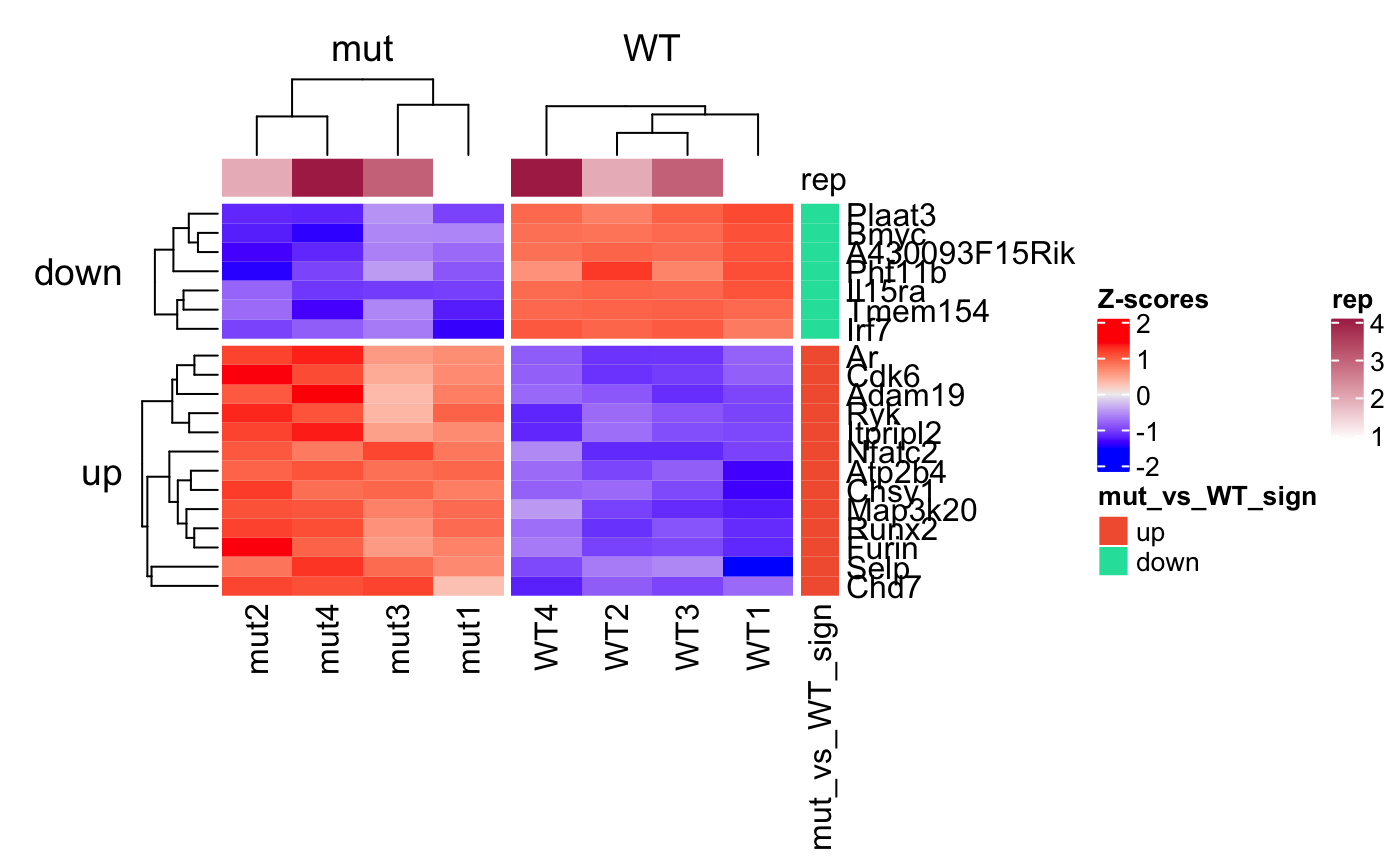
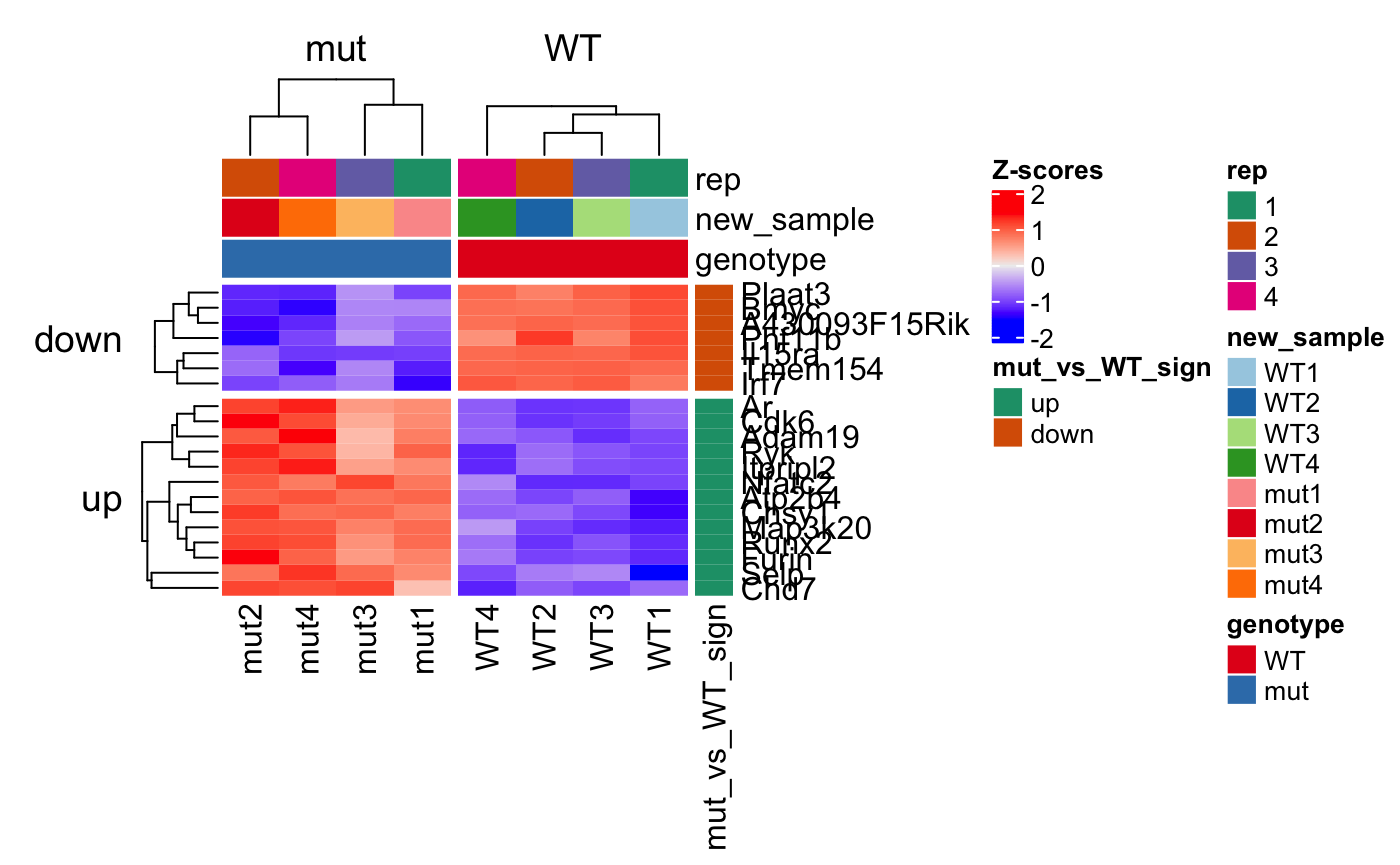
New function to compare gseaResult objects to bbcRNA object to find missing genes and details about why they were removed.
Closes #5.

diff --git a/docs/articles/rnaseq_from_star.html b/docs/articles/rnaseq_from_star.html
@@ -452,12 +452,14 @@
 <span id="cb42-15"><a href="#cb42-15"></a><span class="co">## store LFC sign in rowData. Genes with no matches will be NA.</span></span>
 <span id="cb42-16"><a href="#cb42-16"></a><span class="kw"><a href="https://rdrr.io/pkg/SummarizedExperiment/man/SummarizedExperiment-class.html">rowData</a></span>(bbc_obj)<span class="op">$</span>mut_vs_WT_sign &lt;-<span class="st"> </span></span>
 <span id="cb42-17"><a href="#cb42-17"></a><span class="st">  </span>mut_vs_WT_sign[<span class="kw"><a href="https://rdrr.io/r/base/match.html">match</a></span>(<span class="kw"><a href="https://rdrr.io/r/base/colnames.html">rownames</a></span>(bbc_obj), <span class="kw"><a href="https://rdrr.io/r/base/names.html">names</a></span>(mut_vs_WT_sign))]</span>
-<span id="cb42-18"><a href="#cb42-18"></a></span>
-<span id="cb42-19"><a href="#cb42-19"></a><span class="co"># plot Zscores of normalized log2 cpms</span></span>
-<span id="cb42-20"><a href="#cb42-20"></a><span class="kw"><a href="../reference/plot_heatmap.html">plot_heatmap</a></span>(<span class="dt">x =</span> bbc_obj, <span class="dt">genes =</span> top_genes, <span class="dt">zscores=</span><span class="ot">TRUE</span>, </span>
-<span id="cb42-21"><a href="#cb42-21"></a>             <span class="dt">rowdata_annot =</span> <span class="st">"mut_vs_WT_sign"</span>, <span class="dt">coldata_annot =</span> <span class="st">"rep"</span>,</span>
-<span id="cb42-22"><a href="#cb42-22"></a>             <span class="dt">rowdata_split =</span> <span class="st">"mut_vs_WT_sign"</span>, <span class="dt">coldata_split=</span><span class="st">"genotype"</span>, </span>
-<span id="cb42-23"><a href="#cb42-23"></a>             <span class="dt">gene_labels =</span> <span class="st">"uniq_syms"</span>)</span></code></pre></div>
+<span id="cb42-18"><a href="#cb42-18"></a><span class="co">## make rep a factor</span></span>
+<span id="cb42-19"><a href="#cb42-19"></a><span class="kw"><a href="https://rdrr.io/pkg/SummarizedExperiment/man/SummarizedExperiment-class.html">colData</a></span>(bbc_obj)<span class="op">$</span>rep &lt;-<span class="st"> </span><span class="kw"><a href="https://rdrr.io/r/base/factor.html">factor</a></span>(<span class="kw"><a href="https://rdrr.io/pkg/SummarizedExperiment/man/SummarizedExperiment-class.html">colData</a></span>(bbc_obj)<span class="op">$</span>rep, <span class="dt">levels=</span><span class="kw"><a href="https://rdrr.io/r/base/c.html">c</a></span>(<span class="st">"1"</span>, <span class="st">"2"</span>, <span class="st">"3"</span>, <span class="st">"4"</span>))</span>
+<span id="cb42-20"><a href="#cb42-20"></a></span>
+<span id="cb42-21"><a href="#cb42-21"></a><span class="co"># plot Zscores of normalized log2 cpms</span></span>
+<span id="cb42-22"><a href="#cb42-22"></a><span class="kw"><a href="../reference/plot_heatmap.html">plot_heatmap</a></span>(<span class="dt">x =</span> bbc_obj, <span class="dt">genes =</span> top_genes, <span class="dt">zscores=</span><span class="ot">TRUE</span>, </span>
+<span id="cb42-23"><a href="#cb42-23"></a>             <span class="dt">rowdata_annot =</span> <span class="st">"mut_vs_WT_sign"</span>, <span class="dt">coldata_annot =</span> <span class="kw"><a href="https://rdrr.io/r/base/c.html">c</a></span>(<span class="st">"rep"</span>, <span class="st">"new_sample"</span>, <span class="st">"genotype"</span>),</span>
+<span id="cb42-24"><a href="#cb42-24"></a>             <span class="dt">rowdata_split =</span> <span class="st">"mut_vs_WT_sign"</span>, <span class="dt">coldata_split=</span><span class="st">"genotype"</span>, </span>
+<span id="cb42-25"><a href="#cb42-25"></a>             <span class="dt">gene_labels =</span> <span class="st">"uniq_syms"</span>)</span></code></pre></div>
 <p><img src="rnaseq_from_star_files/figure-html/heatmap-1.png" width="700"></p>
 <div class="sourceCode" id="cb43"><pre class="sourceCode r"><code class="sourceCode r"><span id="cb43-1"><a href="#cb43-1"></a><span class="co"># plot average normalized log2 cpms</span></span>
 <span id="cb43-2"><a href="#cb43-2"></a><span class="kw"><a href="../reference/plot_heatmap.html">plot_heatmap</a></span>(<span class="dt">x =</span> bbc_obj, <span class="dt">genes =</span> top_genes, <span class="dt">zscores=</span><span class="ot">FALSE</span>, </span>
@@ -493,22 +495,24 @@
 <pre><code>## done...</code></pre>
 <div class="sourceCode" id="cb59"><pre class="sourceCode r"><code class="sourceCode r"><span id="cb59-1"><a href="#cb59-1"></a><span class="kw"><a href="https://rdrr.io/r/base/names.html">names</a></span>(H_gsea_results_list)</span></code></pre></div>
 <pre><code>## [1] "genotype_mut_-_WT" "genotype_WT_-_mut"</code></pre>
-<div class="sourceCode" id="cb61"><pre class="sourceCode r"><code class="sourceCode r"><span id="cb61-1"><a href="#cb61-1"></a>enrichplot<span class="op">::</span><span class="kw"><a href="https://rdrr.io/pkg/enrichplot/man/dotplot.html">dotplot</a></span>(H_gsea_results_list[[<span class="dv">1</span>]], <span class="dt">showCategory=</span><span class="dv">10</span>, </span>
-<span id="cb61-2"><a href="#cb61-2"></a>                    <span class="dt">title=</span><span class="st">"Top gene sets"</span>, <span class="dt">split=</span><span class="st">".sign"</span>) <span class="op">+</span><span class="st"> </span></span>
-<span id="cb61-3"><a href="#cb61-3"></a><span class="st">  </span><span class="kw"><a href="https://ggplot2.tidyverse.org/reference/facet_grid.html">facet_grid</a></span>(.<span class="op">~</span>.sign)</span></code></pre></div>
+<div class="sourceCode" id="cb61"><pre class="sourceCode r"><code class="sourceCode r"><span id="cb61-1"><a href="#cb61-1"></a><span class="co"># to get the missing genes</span></span>
+<span id="cb61-2"><a href="#cb61-2"></a>missing_genes &lt;-<span class="st"> </span><span class="kw"><a href="../reference/find_missing_in_gseaResult.html">find_missing_in_gseaResult</a></span>(H_gsea_results_list, bbc_obj)</span></code></pre></div>
+<div class="sourceCode" id="cb62"><pre class="sourceCode r"><code class="sourceCode r"><span id="cb62-1"><a href="#cb62-1"></a>enrichplot<span class="op">::</span><span class="kw"><a href="https://rdrr.io/pkg/enrichplot/man/dotplot.html">dotplot</a></span>(H_gsea_results_list[[<span class="dv">1</span>]], <span class="dt">showCategory=</span><span class="dv">10</span>, </span>
+<span id="cb62-2"><a href="#cb62-2"></a>                    <span class="dt">title=</span><span class="st">"Top gene sets"</span>, <span class="dt">split=</span><span class="st">".sign"</span>) <span class="op">+</span><span class="st"> </span></span>
+<span id="cb62-3"><a href="#cb62-3"></a><span class="st">  </span><span class="kw"><a href="https://ggplot2.tidyverse.org/reference/facet_grid.html">facet_grid</a></span>(.<span class="op">~</span>.sign)</span></code></pre></div>
 <pre><code>## wrong orderBy parameter; set to default `orderBy = "x"`</code></pre>
 <p><img src="rnaseq_from_star_files/figure-html/plot_Hgsea-1.png" width="700"></p>
 </div>
 <div id="gsea-kegg" class="section level1">
 <h1 class="hasAnchor">
 <a href="#gsea-kegg" class="anchor"></a>GSEA – KEGG</h1>
-<div class="sourceCode" id="cb63"><pre class="sourceCode r"><code class="sourceCode r"><span id="cb63-1"><a href="#cb63-1"></a>kegg_gsea_results_list &lt;-<span class="st"> </span><span class="kw"><a href="../reference/run_gsea.html">run_gsea</a></span>(<span class="dt">x =</span> bbc_obj,</span>
-<span id="cb63-2"><a href="#cb63-2"></a>                                <span class="dt">de_pkg =</span> <span class="st">"edger"</span>,</span>
-<span id="cb63-3"><a href="#cb63-3"></a>                                <span class="dt">gene_set =</span> <span class="st">"kegg"</span>,</span>
-<span id="cb63-4"><a href="#cb63-4"></a>                                <span class="dt">orgDb =</span> org.Mm.eg.db,</span>
-<span id="cb63-5"><a href="#cb63-5"></a>                                <span class="dt">organism =</span> <span class="st">"mmu"</span>,</span>
-<span id="cb63-6"><a href="#cb63-6"></a>                                <span class="dt">minGSSize =</span> <span class="dv">30</span>,</span>
-<span id="cb63-7"><a href="#cb63-7"></a>                                <span class="dt">use_internal_data =</span> <span class="ot">FALSE</span>)</span></code></pre></div>
+<div class="sourceCode" id="cb64"><pre class="sourceCode r"><code class="sourceCode r"><span id="cb64-1"><a href="#cb64-1"></a>kegg_gsea_results_list &lt;-<span class="st"> </span><span class="kw"><a href="../reference/run_gsea.html">run_gsea</a></span>(<span class="dt">x =</span> bbc_obj,</span>
+<span id="cb64-2"><a href="#cb64-2"></a>                                <span class="dt">de_pkg =</span> <span class="st">"edger"</span>,</span>
+<span id="cb64-3"><a href="#cb64-3"></a>                                <span class="dt">gene_set =</span> <span class="st">"kegg"</span>,</span>
+<span id="cb64-4"><a href="#cb64-4"></a>                                <span class="dt">orgDb =</span> org.Mm.eg.db,</span>
+<span id="cb64-5"><a href="#cb64-5"></a>                                <span class="dt">organism =</span> <span class="st">"mmu"</span>,</span>
+<span id="cb64-6"><a href="#cb64-6"></a>                                <span class="dt">minGSSize =</span> <span class="dv">30</span>,</span>
+<span id="cb64-7"><a href="#cb64-7"></a>                                <span class="dt">use_internal_data =</span> <span class="ot">FALSE</span>)</span></code></pre></div>
 <pre><code>## genotype_mut_-_WT: removed 0 genes out of 10827 due to logFC = 0 or PValue = 1</code></pre>
 <pre><code>## genotype_mut_-_WT: removed 503 genes out of 10827 due to no Entrez gene match</code></pre>
 <pre><code>## genotype_mut_-_WT: total genes remaining is 10324</code></pre>
@@ -523,19 +527,19 @@
 <pre><code>## GSEA analysis...</code></pre>
 <pre><code>## leading edge analysis...</code></pre>
 <pre><code>## done...</code></pre>
-<div class="sourceCode" id="cb78"><pre class="sourceCode r"><code class="sourceCode r"><span id="cb78-1"><a href="#cb78-1"></a><span class="kw"><a href="https://rdrr.io/r/base/names.html">names</a></span>(kegg_gsea_results_list)</span></code></pre></div>
+<div class="sourceCode" id="cb79"><pre class="sourceCode r"><code class="sourceCode r"><span id="cb79-1"><a href="#cb79-1"></a><span class="kw"><a href="https://rdrr.io/r/base/names.html">names</a></span>(kegg_gsea_results_list)</span></code></pre></div>
 <pre><code>## [1] "genotype_mut_-_WT" "genotype_WT_-_mut"</code></pre>
-<div class="sourceCode" id="cb80"><pre class="sourceCode r"><code class="sourceCode r"><span id="cb80-1"><a href="#cb80-1"></a>enrichplot<span class="op">::</span><span class="kw"><a href="https://rdrr.io/pkg/enrichplot/man/dotplot.html">dotplot</a></span>(kegg_gsea_results_list[[<span class="dv">1</span>]], <span class="dt">showCategory=</span><span class="dv">10</span>, </span>
-<span id="cb80-2"><a href="#cb80-2"></a>                    <span class="dt">title=</span><span class="st">"Top gene sets"</span>, <span class="dt">split=</span><span class="st">".sign"</span>) <span class="op">+</span><span class="st"> </span></span>
-<span id="cb80-3"><a href="#cb80-3"></a><span class="st">  </span><span class="kw"><a href="https://ggplot2.tidyverse.org/reference/facet_grid.html">facet_grid</a></span>(.<span class="op">~</span>.sign)</span></code></pre></div>
+<div class="sourceCode" id="cb81"><pre class="sourceCode r"><code class="sourceCode r"><span id="cb81-1"><a href="#cb81-1"></a>enrichplot<span class="op">::</span><span class="kw"><a href="https://rdrr.io/pkg/enrichplot/man/dotplot.html">dotplot</a></span>(kegg_gsea_results_list[[<span class="dv">1</span>]], <span class="dt">showCategory=</span><span class="dv">10</span>, </span>
+<span id="cb81-2"><a href="#cb81-2"></a>                    <span class="dt">title=</span><span class="st">"Top gene sets"</span>, <span class="dt">split=</span><span class="st">".sign"</span>) <span class="op">+</span><span class="st"> </span></span>
+<span id="cb81-3"><a href="#cb81-3"></a><span class="st">  </span><span class="kw"><a href="https://ggplot2.tidyverse.org/reference/facet_grid.html">facet_grid</a></span>(.<span class="op">~</span>.sign)</span></code></pre></div>
 <pre><code>## wrong orderBy parameter; set to default `orderBy = "x"`</code></pre>
 <p><img src="rnaseq_from_star_files/figure-html/plot_kegggsea-1.png" width="700"></p>
-<div class="sourceCode" id="cb82"><pre class="sourceCode r"><code class="sourceCode r"><span id="cb82-1"><a href="#cb82-1"></a><span class="co">#gseaplot(kegg_gsea_results_list[[1]], geneSetID = "mmu05200", by="runningScore")</span></span></code></pre></div>
+<div class="sourceCode" id="cb83"><pre class="sourceCode r"><code class="sourceCode r"><span id="cb83-1"><a href="#cb83-1"></a><span class="co">#gseaplot(kegg_gsea_results_list[[1]], geneSetID = "mmu05200", by="runningScore")</span></span></code></pre></div>
 </div>
 <div id="session-info" class="section level1">
 <h1 class="hasAnchor">
 <a href="#session-info" class="anchor"></a>Session info</h1>
-<div class="sourceCode" id="cb83"><pre class="sourceCode r"><code class="sourceCode r"><span id="cb83-1"><a href="#cb83-1"></a><span class="kw"><a href="https://rdrr.io/r/utils/sessionInfo.html">sessionInfo</a></span>()</span></code></pre></div>
+<div class="sourceCode" id="cb84"><pre class="sourceCode r"><code class="sourceCode r"><span id="cb84-1"><a href="#cb84-1"></a><span class="kw"><a href="https://rdrr.io/r/utils/sessionInfo.html">sessionInfo</a></span>()</span></code></pre></div>
 <pre><code>## R version 3.6.1 (2019-07-05)
 ## Platform: x86_64-apple-darwin15.6.0 (64-bit)
 ## Running under: macOS Mojave 10.14.6

diff --git a/docs/reference/find_missing_in_gseaResult.html b/docs/reference/find_missing_in_gseaResult.html
@@ -6,7 +6,7 @@
 <meta http-equiv="X-UA-Compatible" content="IE=edge">
 <meta name="viewport" content="width=device-width, initial-scale=1.0">
 
-<title>Run GSEA — run_gsea • bbcRNA</title>
+<title>Compare genes in clusterProfiler gseaResult to genes in a bbcRNA object — find_missing_in_gseaResult • bbcRNA</title>
 
 <!-- jquery -->
 <script src="https://cdnjs.cloudflare.com/ajax/libs/jquery/3.3.1/jquery.min.js" integrity="sha256-FgpCb/KJQlLNfOu91ta32o/NMZxltwRo8QtmkMRdAu8=" crossorigin="anonymous"></script>
@@ -32,9 +32,12 @@
 
 
 
-<meta property="og:title" content="Run GSEA — run_gsea" />
+<meta property="og:title" content="Compare genes in clusterProfiler gseaResult to genes in a bbcRNA object — find_missing_in_gseaResult" />
 
-<meta property="og:description" content="Run GSEA" />
+<meta property="og:description" content="Output dataframe for genes that did not have an Entrez match (based on rules
+in ens2entrez) and genes that are present in the bbcRNA object but not in the
+bbcRNA object. Output LFC and PValue. If present in the bbcRNA object but not
+in the DE analysis, then it is inferred to be a lowly expressed gene." />
 <meta name="twitter:card" content="summary" />
 
 
@@ -110,99 +113,42 @@
 <div class="row">
   <div class="col-md-9 contents">
     <div class="page-header">
-    <h1>Run GSEA</h1>
+    <h1>Compare genes in clusterProfiler gseaResult to genes in a bbcRNA object</h1>
     
-    <div class="hidden name"><code>run_gsea.Rd</code></div>
+    <div class="hidden name"><code>find_missing_in_gseaResult.Rd</code></div>
     </div>
 
     <div class="ref-description">
     
-    <p>Run GSEA</p>
+    <p>Output dataframe for genes that did not have an Entrez match (based on rules
+in ens2entrez) and genes that are present in the bbcRNA object but not in the
+bbcRNA object. Output LFC and PValue. If present in the bbcRNA object but not
+in the DE analysis, then it is inferred to be a lowly expressed gene.</p>
     
     </div>
 
-    <pre class="usage"><span class='fu'>run_gsea</span>(<span class='no'>x</span>, <span class='no'>...</span>)
-
-<span class='co'># S4 method for data.frame</span>
-<span class='fu'>run_gsea</span>(<span class='no'>x</span>, <span class='kw'>gene_set</span> <span class='kw'>=</span> <span class='st'>"reactome"</span>, <span class='no'>organism</span>,
-  <span class='no'>orgDb</span>, <span class='no'>...</span>)
-
-<span class='co'># S4 method for BbcSE</span>
-<span class='fu'>run_gsea</span>(<span class='no'>x</span>, <span class='kw'>de_pkg</span> <span class='kw'>=</span> <span class='st'>"edger"</span>,
-  <span class='kw'>rank_by</span> <span class='kw'>=</span> <span class='st'>"signed-log10pval"</span>, <span class='kw'>contrast_names</span> <span class='kw'>=</span> <span class='st'>""</span>, <span class='no'>...</span>)</pre>
+    <pre class="usage"><span class='fu'>find_missing_in_gseaResult</span>(<span class='no'>gseaResults</span>, <span class='no'>bbcRNA</span>, <span class='kw'>de_pkg</span> <span class='kw'>=</span> <span class='st'>"edger"</span>)</pre>
     
     <h2 class="hasAnchor" id="arguments"><a class="anchor" href="#arguments"></a>Arguments</h2>
     <table class="ref-arguments">
     <colgroup><col class="name" /><col class="desc" /></colgroup>
     <tr>
-      <th>x</th>
-      <td><p>A BbcSE object or a DGEList or a DESeqDataSet.</p></td>
+      <th>gseaResults</th>
+      <td><p>A list of ClusterProfiler::gseaResult objects outputted by 'run_gsea'.</p></td>
     </tr>
     <tr>
-      <th>...</th>
-      <td><p>Passed to gseKEGG, GSEA or gsePathway. See each function for
-possible arguments.</p></td>
-    </tr>
-    <tr>
-      <th>gene_set</th>
-      <td><p>one of "kegg", "reactome", "H", "C1", "C2", "C3", "C4", "C5",
-"C6", "C7"</p></td>
-    </tr>
-    <tr>
-      <th>organism</th>
-      <td><p>For compatibility with dowstream tools, the organism is
-specified differently depending on the desired gene set. For KEGG, use the
-three-letter code according to
-http://www.genome.jp/kegg/catalog/org_list.html. For Reactome, possible
-values are ‘celegans’, ‘fly’, ‘human’, ‘mouse’, ‘rat’, ‘yeast’ and
-‘zebrafish’. For msigdb, run 'msigdbr::msigdbr_show_species()'.</p></td>
-    </tr>
-    <tr>
-      <th>orgDb</th>
-      <td><p>OrgDB object for your organism</p></td>
+      <th>bbcRNA</th>
+      <td><p>bbcRNA object</p></td>
     </tr>
     <tr>
       <th>de_pkg</th>
-      <td><p>"edger" or "deseq2". Only used if x is a BbcSE</p></td>
-    </tr>
-    <tr>
-      <th>rank_by</th>
-      <td><dl class='dl-horizontal'>
- <dt>"signed-log10pval"</dt><dd><p>-log10 of the PValue from the DE analysis, signed
- by the LFC.</p></dd>
- <dt>"-log10pval"</dt><dd><p>-log10 of the PValue from the DE analysis. May be ideal
- for gene sets that contain both up-regulated and down-regulated genes for a
- particular process or pathway etc.</p></dd>
-
-</dl></td>
-    </tr>
-    <tr>
-      <th>contrast_names</th>
-      <td><p>character value or vector for the contrast(s) of
-interest. See name(de_results(edger(x))). If left to default "" value then
-all contrasts will be processed.</p></td>
+      <td><p>"edger" or "deseq2"</p></td>
     </tr>
     </table>
     
     <h2 class="hasAnchor" id="value"><a class="anchor" href="#value"></a>Value</h2>
 
-    <p>A list of gseaResult objects or one gseaResult object</p>
-    
-    <h2 class="hasAnchor" id="methods-by-class-"><a class="anchor" href="#methods-by-class-"></a>Methods (by class)</h2>
-
-    
-<ul>
-<li><p><code>data.frame</code>: x is a dataframe with gene name as col1 and
-metric(log2FC or F etc) as col2. Function will sort by col2 in decreasing
-order. See '?prep_clusterprofiler_genelist'.</p></li>
-<li><p><code>BbcSE</code>: Extract out the gene and signed -log10 PValue. Run
-run_gsea for each result object (contrast).</p></li>
-</ul>
-    
-    <h2 class="hasAnchor" id="see-also"><a class="anchor" href="#see-also"></a>See also</h2>
-
-    <div class='dont-index'><p><code><a href='https://rdrr.io/pkg/clusterProfiler/man/gseKEGG.html'>gseKEGG</a> <a href='https://rdrr.io/pkg/clusterProfiler/man/GSEA.html'>GSEA</a>
-<a href='https://rdrr.io/pkg/ReactomePA/man/gsePathway.html'>gsePathway</a></code></p></div>
+    <p>A dataframe of missing genes.</p>
     
 
   </div>
@@ -212,10 +158,6 @@ run_gsea for each result object (contrast).</p></li>
       <li><a href="#arguments">Arguments</a></li>
       
       <li><a href="#value">Value</a></li>
-
-      <li><a href="#methods-by-class-">Methods (by class)</a></li>
-
-      <li><a href="#see-also">See also</a></li>
           </ul>
 
   </div>

diff --git a/docs/reference/index.html b/docs/reference/index.html
@@ -236,6 +236,12 @@
       </tr><tr>
         
         <td>
+          <p><code><a href="find_missing_in_gseaResult.html">find_missing_in_gseaResult()</a></code> </p>
+        </td>
+        <td><p>Compare genes in clusterProfiler gseaResult to genes in a bbcRNA object</p></td>
+      </tr><tr>
+        
+        <td>
           <p><code><a href="get_de_table.html">get_de_table()</a></code> </p>
         </td>
         <td><p>Get a table of DE results</p></td>
